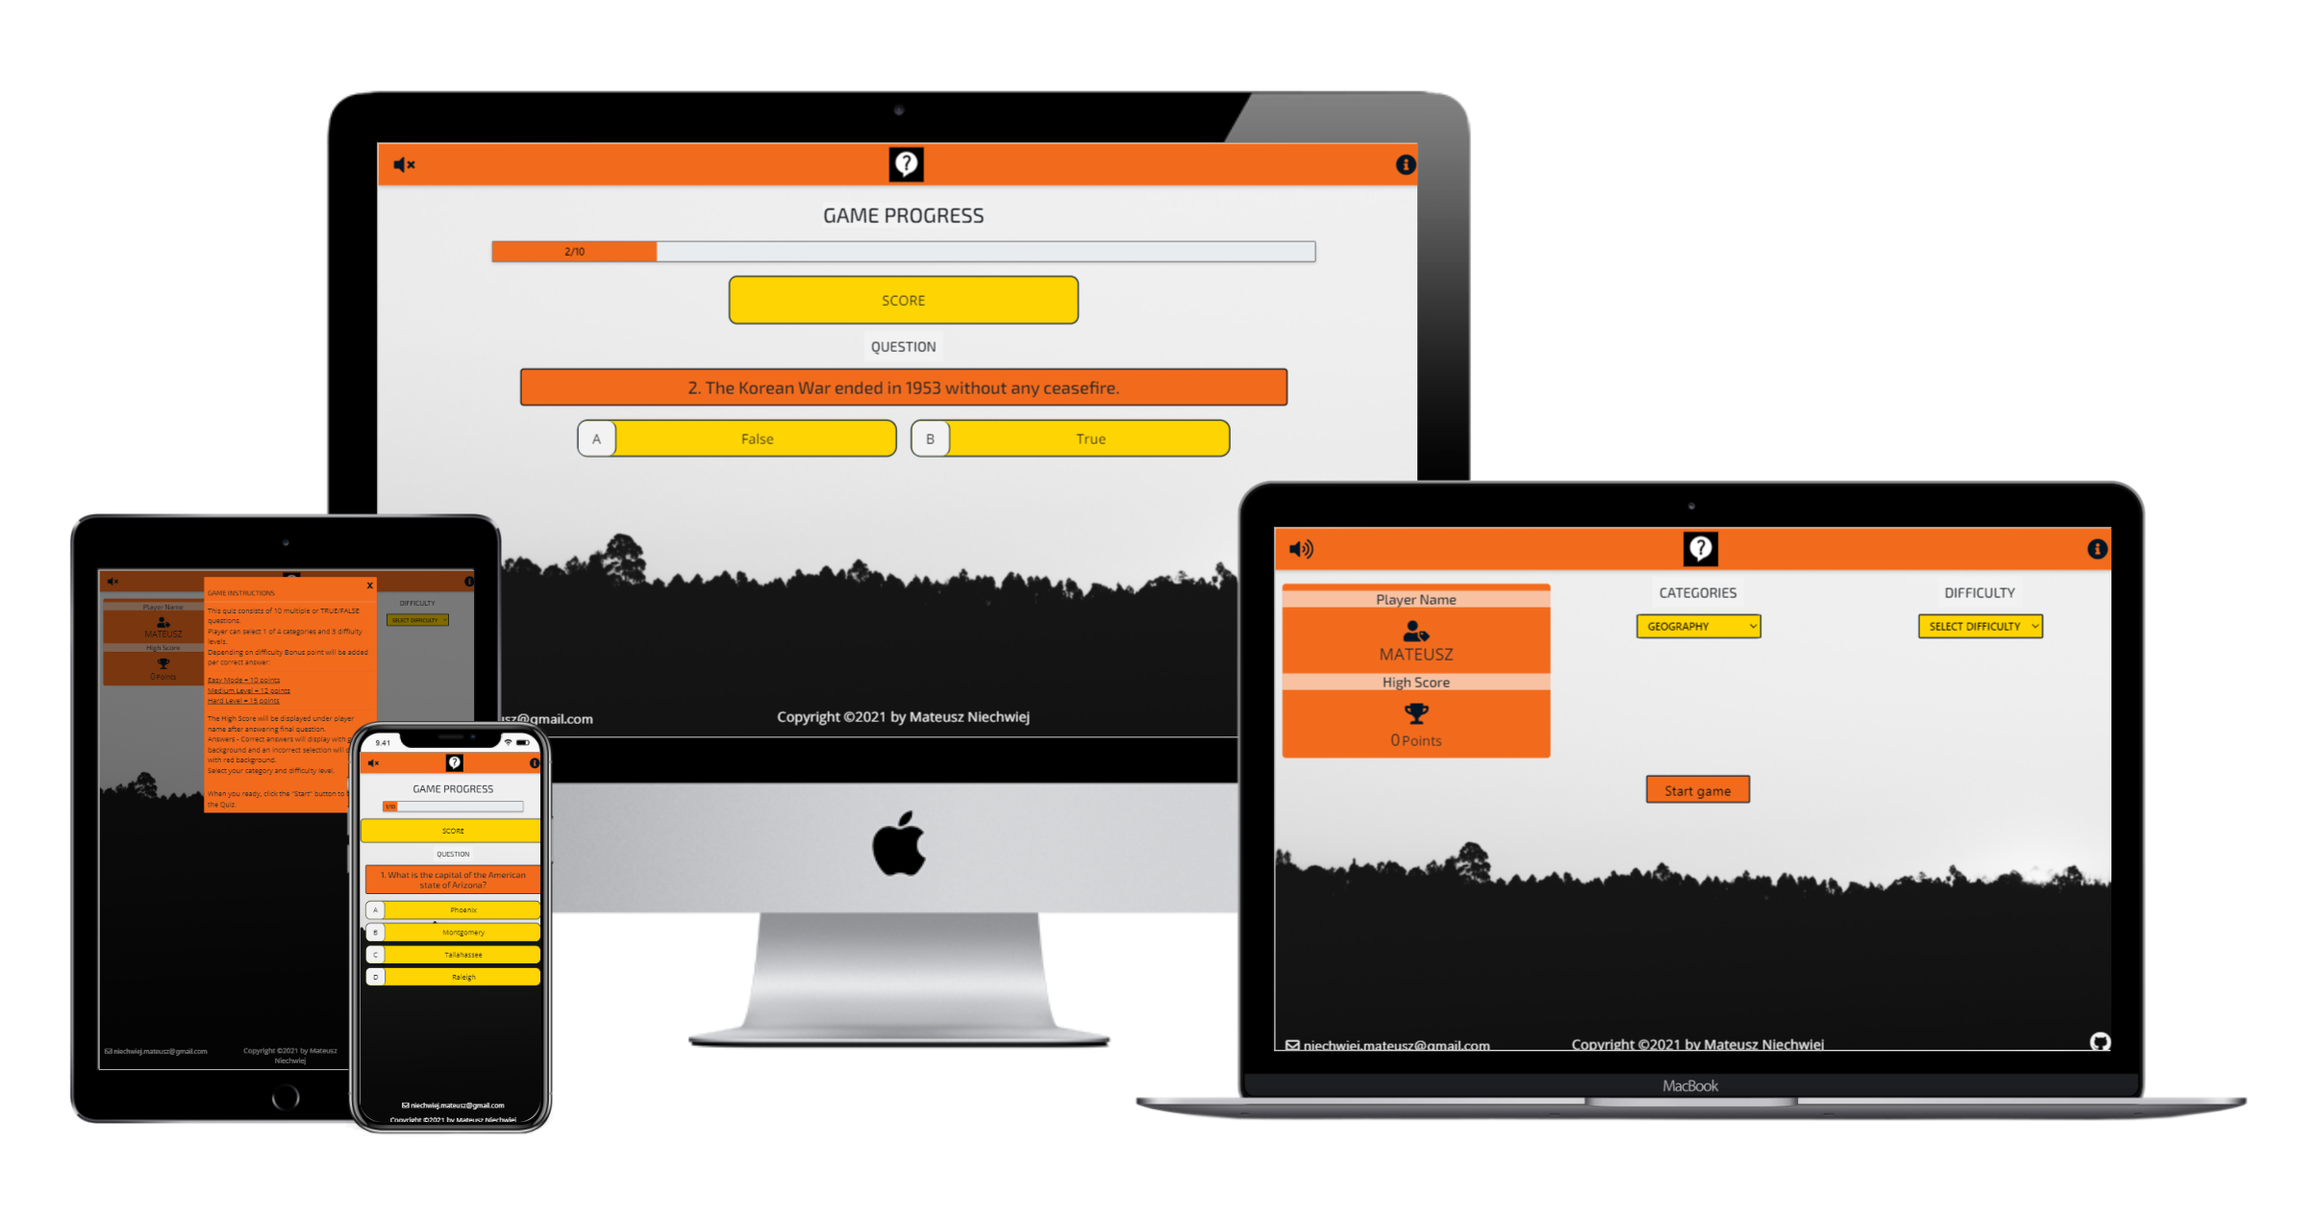
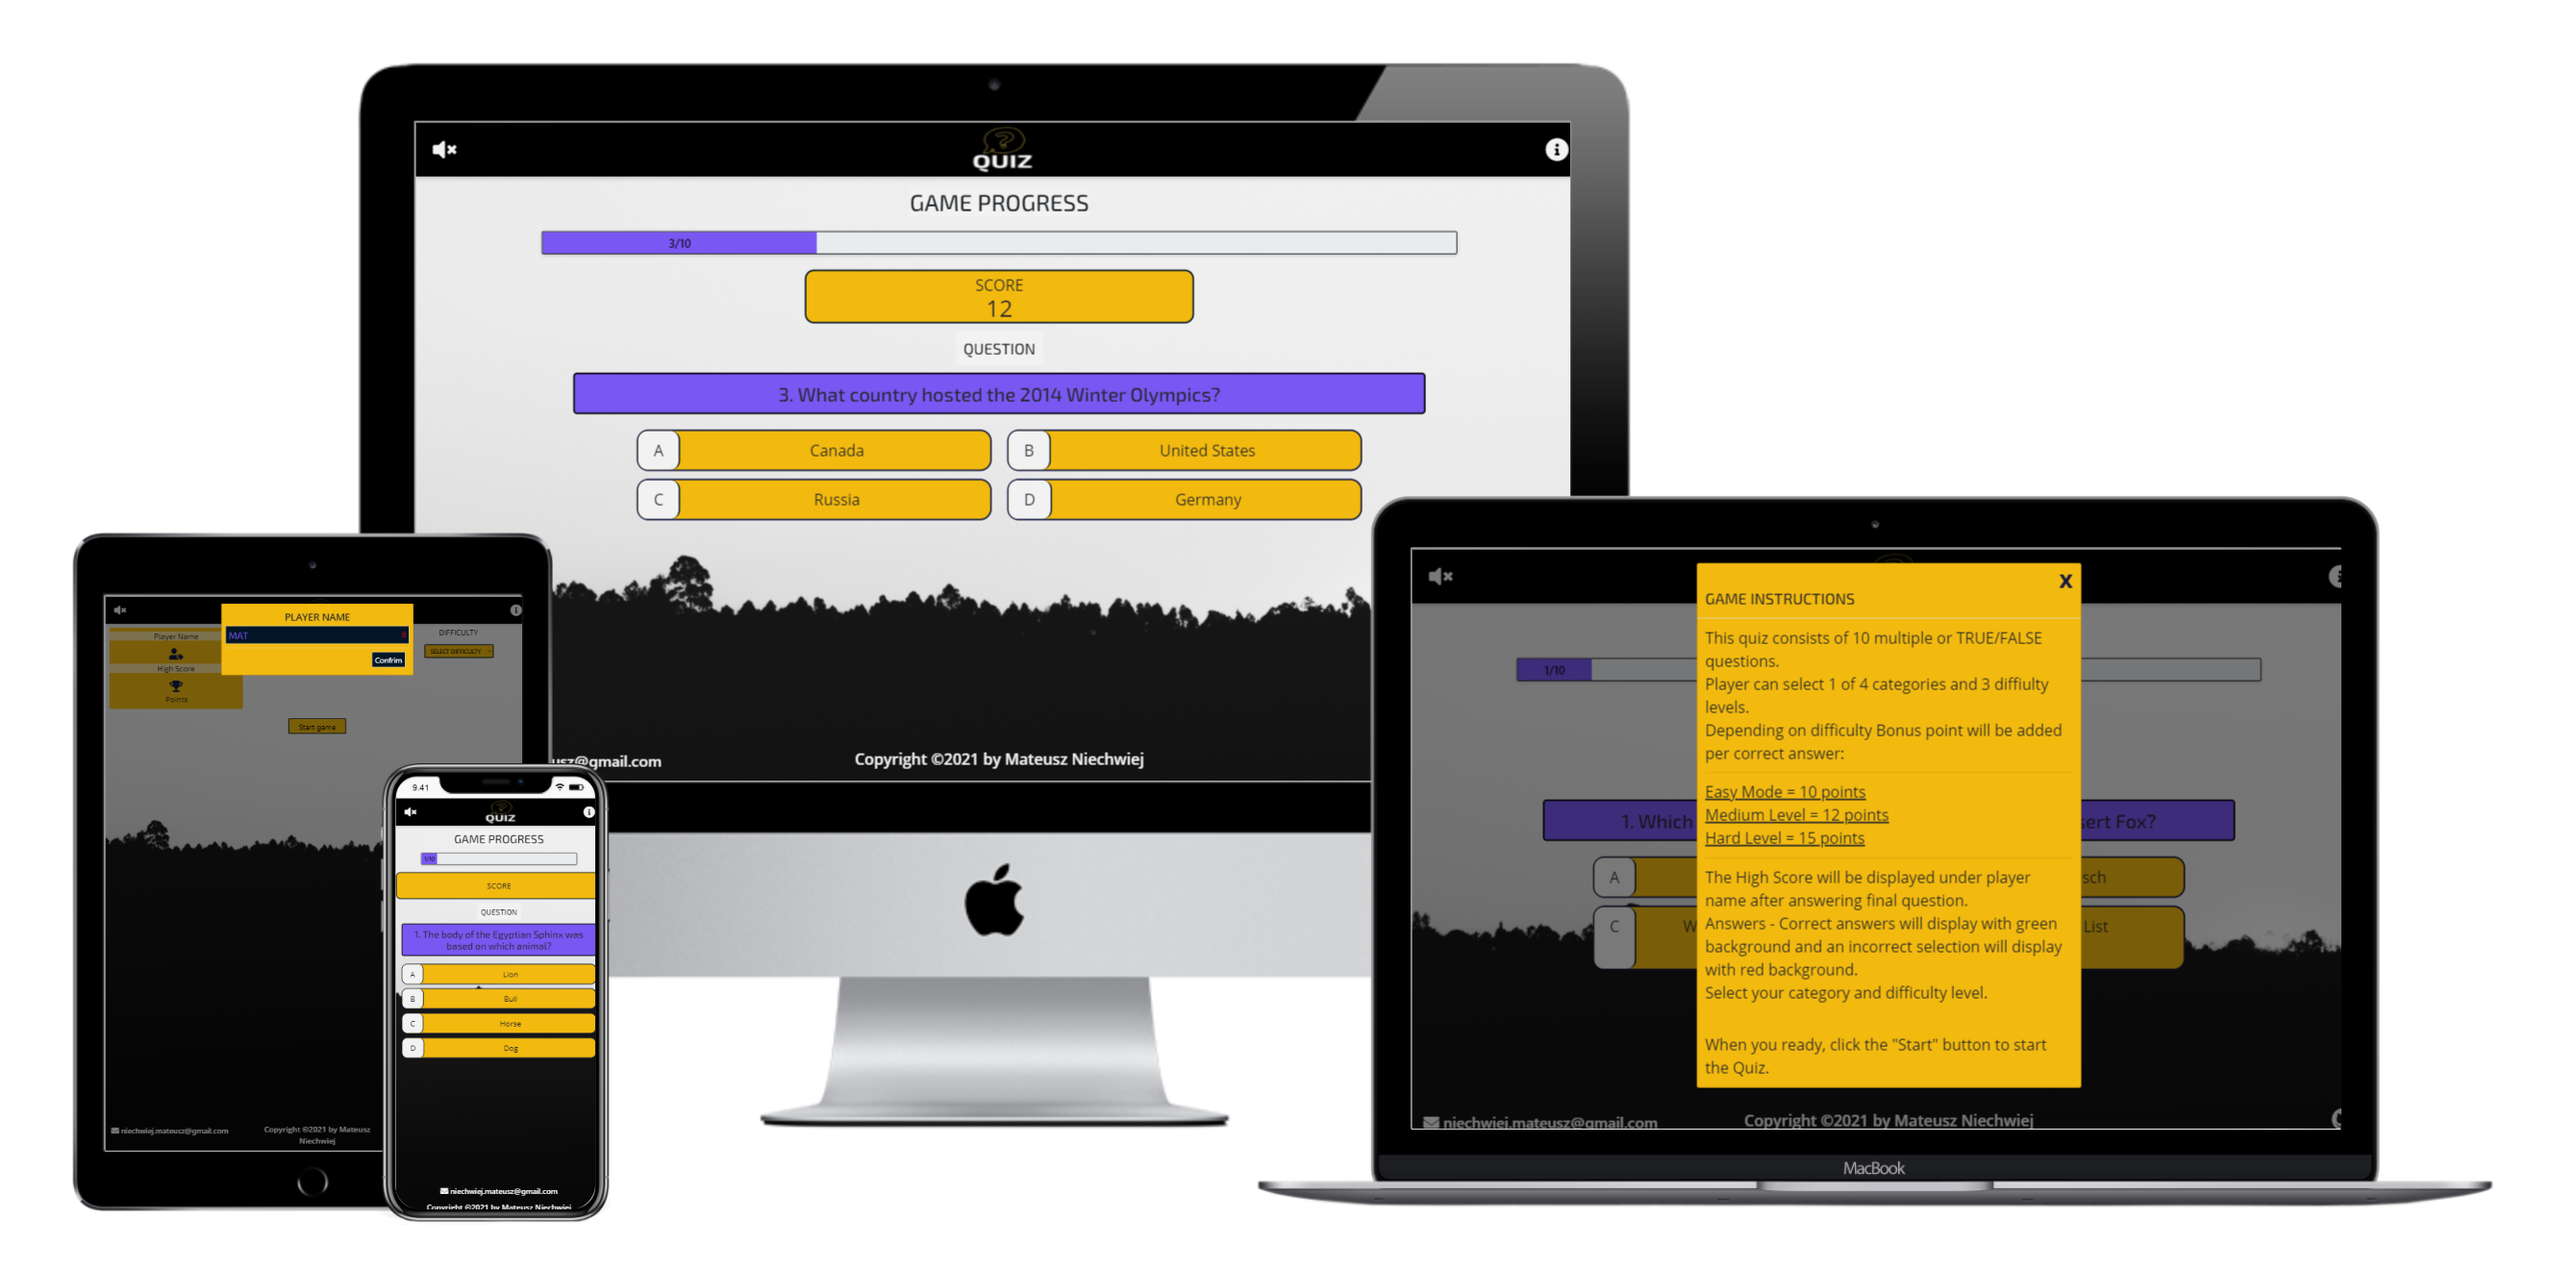
change colour palette

diff --git a/README.md b/README.md
@@ -393,7 +393,7 @@ One image used as a background in this project
 * [Favicon](https://favicon.io/) - to create a favicon for this Website.
 
 * [online-audio-converter](https://online-audio-converter.com/) - to convert files to mp3.
-* [techsini](https://techsini.com/) - To generate website mock-up for README file.
+* [techsini](https://techsini.com/) - To generate website mock-up .
 
 
 
